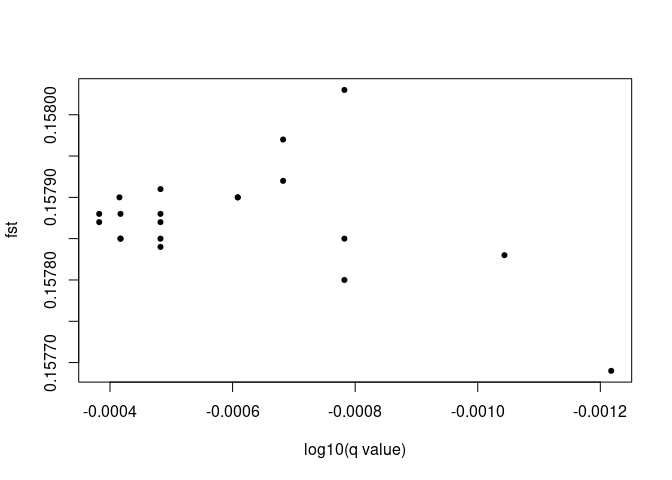
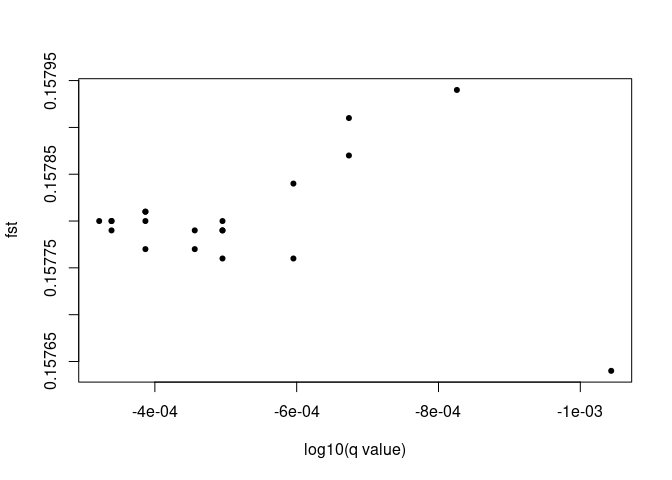
update

diff --git a/FORGENIUS-pipeline.md b/FORGENIUS-pipeline.md
@@ -82,6 +82,18 @@ pop(data_genind) <- substr(indNames(data_genind), 1,8) #takes pop name from the 
 # data[1:10,1:10] %>% kable_mydf(boldfirstcolumn = F, font_size = 11) # use for visualization of input data but careful as it may give an error when rendering!
 # data_genind <- df2genind(X = data[, -(1:2)], sep="/", pop = data[, 2], ind.names = data[, 1], NA.char ="NA") #change column numbers, separator or missing data string if needed
 
+# Remove monomorphic loci in dataset
+data_genind <- informloci(data_genind, cutoff = 0.00, MAF = 0.00, quiet = FALSE)
+```
+
+    ## cutoff value: 0 % ( 0 samples ).
+
+    ## MAF         : 0
+
+    ## 
+    ## All sites polymorphic
+
+``` r
 # Remove loci with too much missing data from genind object
 #data_genind <- missingno(data_genind, type = "loci", cutoff = 0.05, quiet = FALSE, freq = FALSE)
 
@@ -92,18 +104,9 @@ pop(data_genind) <- substr(indNames(data_genind), 1,8) #takes pop name from the 
 #loci2keep <- scan(file="gea_outliers.txt", what=character()) # read list of loci to keep
 #data_genind = data_genind[loc=loci2keep] # filter by locus name in list
 
-# Filter by Minor Allele Frequency (MAF) from genind object
-data_genind <- informloci(data_genind, cutoff = 2/nInd(data_genind), MAF = 0.00, quiet = FALSE) # Keep at least 0.00, to remove monomorphic loci in the full dataset
-```
+# Filter by  either percentage of differentiating genotypes or Minor Allele Frequency (MAF) from genind object
+# data_genind <- informloci(data_genind, cutoff = 2/nInd(data_genind), MAF = 0.01, quiet = FALSE)
 
-    ## cutoff value: 0.484261501210654 % ( 2 samples ).
-
-    ## MAF         : 0
-
-    ## 
-    ## All sites polymorphic
-
-``` r
 # extract individual names
 individual_names<-indNames(data_genind)
 
@@ -230,29 +233,29 @@ barchart (data_snmf, best_K, best_run, sort.by.Q = T, col = rainbow(best_K), bor
 ![](FORGENIUS-pipeline_files/figure-gfm/Estimate%20admixture%20coefficients-2.png)<!-- -->
 
     ## $order
-    ##   [1]   1   2   3   6   7   8   9  12  15  17  18  20  21  24  25  26  29  31
-    ##  [19]  35  36  39  41  42  43  44  45  48  49  50  51  53  55  57  58  66  67
-    ##  [37]  75  77  78  81  85  87  89  90  91  92  93  94  95  96  97  98 104 106
-    ##  [55] 107 108 109 110 111 112 113 115 116 117 118 120 121 123 124 125 126 127
-    ##  [73] 128 129 131 133 134 135 137 140 141 144 145 146 147 148 149 150 151 152
-    ##  [91] 153 155 156 157 158 159 160 161 162 163 166 168 169 173 175 177 179 183
-    ## [109] 184 185 186 197 199 201 203 204 205 215 216 217 219 220 221 222 223 227
-    ## [127] 228 231 232 233 236 237 239 244 245 247 253 262 267 268 272 277 278 283
-    ## [145] 284 295 298 299 304 306 312 314 321 333 335 337 347 353 356 358 361 362
-    ## [163] 368 375 379 383 388 389 390 393 395 402 407  11  19  23  37  38  56  59
-    ## [181]  65  69  70  72  74  80  82  84  88 139 171 178 190 194 200 210 224 225
-    ## [199] 226 229 234 235 238 242 243 246 248 250 254 256 259 261 270 276 282 285
-    ## [217] 289 290 294 297 300 303 308 309 317 325 328 334 339 343 345 346 349 352
-    ## [235] 365 367 372 378 386 392 398 408 409  14  16  79  83 143 180 206 208 211
-    ## [253] 212 269 273 274 275 279 288 305 315 318 320 338 350 355 370 381   4   5
-    ## [271]  10  13  22  27  28  33  40  46  47  52  61  64  68  71  73  76  86  99
-    ## [289] 100 101 102 103 105 122 132 167 170 172 174 176 181 182 187 191 192 193
-    ## [307] 207 209 213 218 230 271 280 281 287 291 292 296 307 319 331 340 363 366
-    ## [325] 371 373 382 384 401 404 412  30  32  34  54  60  62  63 114 119 130 136
-    ## [343] 138 142 154 164 165 188 189 195 196 198 202 214 240 241 249 251 252 255
-    ## [361] 257 258 260 263 264 265 266 286 293 301 302 310 311 313 316 322 323 324
-    ## [379] 326 327 329 330 332 336 341 342 344 348 351 354 357 359 360 364 369 374
-    ## [397] 376 377 380 385 387 391 394 396 397 399 400 403 405 406 410 411 413
+    ##   [1]   1   2   6   7   8  11  15  17  18  23  26  31  36  38  39  41  42  48
+    ##  [19]  49  55  56  57  58  59  65  66  69  70  72  74  77  80  82  84  88  90
+    ##  [37]  91  93  95  96  97  98 104 107 108 110 111 113 118 123 124 125 131 133
+    ##  [55] 139 141 144 145 146 147 148 150 151 152 153 156 157 158 159 161 171 175
+    ##  [73] 177 186 190 194 200 203 215 216 217 221 222 223 224 225 226 227 228 231
+    ##  [91] 232 235 236 237 238 242 243 245 246 248 250 253 256 259 261 268 270 282
+    ## [109] 284 289 290 294 295 297 299 300 308 309 312 317 328 334 335 339 343 345
+    ## [127] 346 349 352 353 362 365 367 378 386 388 390 393 399 402 406 408 409  30
+    ## [145]  32  34  54  60  62  63 114 119 130 136 138 142 154 164 165 180 188 189
+    ## [163] 195 196 198 202 214 240 241 249 251 252 255 257 258 260 263 264 265 266
+    ## [181] 286 301 302 305 310 311 313 315 316 322 323 324 325 326 327 332 336 341
+    ## [199] 342 344 348 351 354 360 364 369 370 374 376 377 380 385 387 391 394 396
+    ## [217] 397 400 403 405 410 413   4   5  10  13  22  27  28  33  40  46  47  52
+    ## [235]  61  64  68  71  73  76  86  99 100 101 102 103 105 122 167 170 172 174
+    ## [253] 176 181 182 187 191 192 193 207 209 210 213 218 229 230 271 278 280 291
+    ## [271] 292 296 307 319 331 340 363 366 371 372 373 382 392 401 404 412   3   9
+    ## [289]  12  19  20  21  24  25  29  35  37  43  44  45  50  51  53  67  75  78
+    ## [307]  81  85  87  89  92  94 106 109 112 115 116 117 120 121 126 127 128 129
+    ## [325] 132 134 135 137 140 149 155 160 162 163 166 168 169 173 178 179 183 184
+    ## [343] 185 197 199 201 204 205 219 220 233 234 239 244 247 254 262 267 272 277
+    ## [361] 283 287 293 298 303 304 306 314 321 329 333 337 347 356 358 359 361 368
+    ## [379] 375 379 383 389 395 398 407 411  14  16  79  83 143 206 208 211 212 269
+    ## [397] 273 274 275 276 279 281 285 288 318 320 330 338 350 355 357 381 384
 
 ``` r
 # estimate ancestry coefficients by pop
